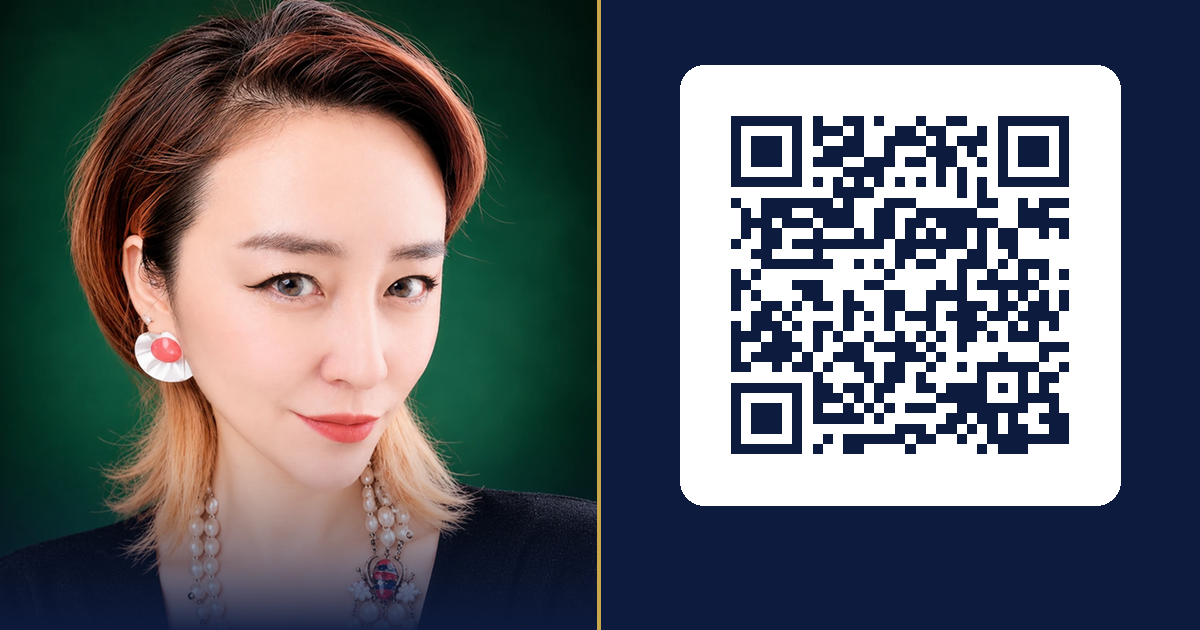
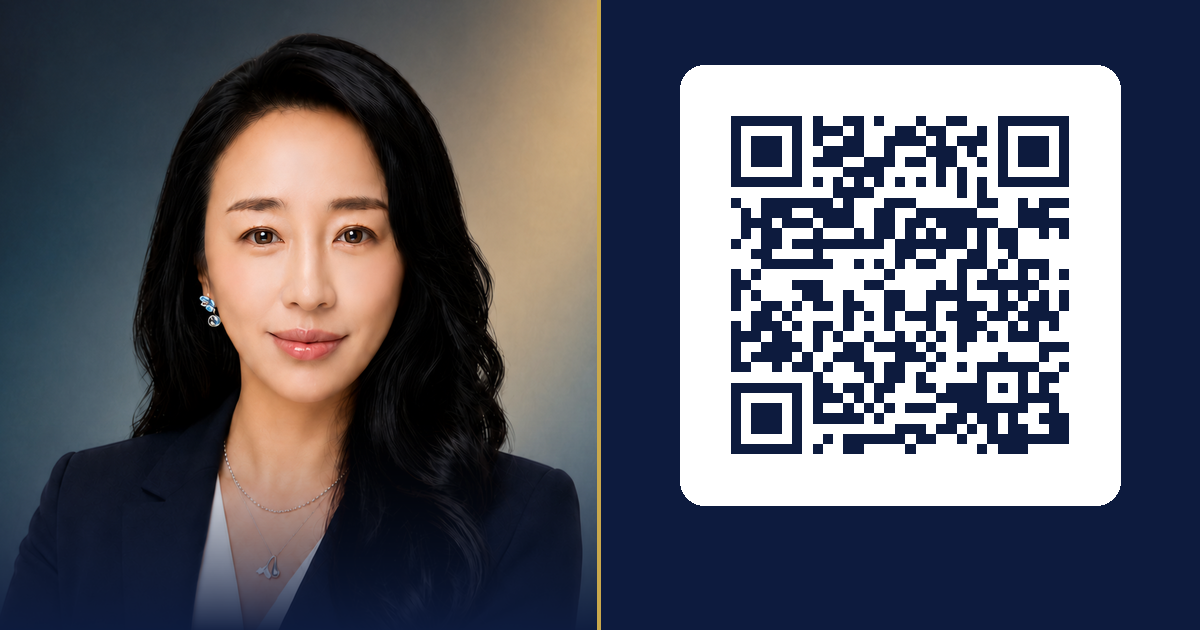
조신아 비즈홈: OG 이미지를 새 인물 사진으로 교체, 포트폴리오 12·13번(문 자 컬렉션, CHAMI 패키지) 추가
Claude-Session: https://claude.ai/code/session_01NPD1Gwdjd8fKtMWM3ioCDC

diff --git a/조신아/index.html b/조신아/index.html
@@ -390,7 +390,7 @@ footer .slogan-footer { font-size: 11px; color: var(--muted-dark); letter-spacin
 <section class="portfolio">
   <div class="section-label">Portfolio</div>
   <div class="section-title"><span data-lang="kr" class="active">작업 사례</span><span data-lang="jp">作品事例</span><span data-lang="cn">作品案例</span><span data-lang="en">Portfolio</span><span data-lang="it">Portfolio</span></div>
-  <div class="portfolio-track-wrap"><div class="portfolio-track" id="portfolio-track"><div class="portfolio-slide"><img src="portfolio/01.jpg" alt="portfolio 1" loading="lazy" onerror="this.parentNode.remove();window.portfolioRefresh&&window.portfolioRefresh()"></div><div class="portfolio-slide"><img src="portfolio/02.jpg" alt="portfolio 2" loading="lazy" onerror="this.parentNode.remove();window.portfolioRefresh&&window.portfolioRefresh()"></div><div class="portfolio-slide"><img src="portfolio/03.jpg" alt="portfolio 3" loading="lazy" onerror="this.parentNode.remove();window.portfolioRefresh&&window.portfolioRefresh()"></div><div class="portfolio-slide"><img src="portfolio/04.jpg" alt="portfolio 4" loading="lazy" onerror="this.parentNode.remove();window.portfolioRefresh&&window.portfolioRefresh()"></div><div class="portfolio-slide"><img src="portfolio/05.jpg" alt="portfolio 5" loading="lazy" onerror="this.parentNode.remove();window.portfolioRefresh&&window.portfolioRefresh()"></div><div class="portfolio-slide"><img src="portfolio/06.jpg" alt="portfolio 6" loading="lazy" onerror="this.parentNode.remove();window.portfolioRefresh&&window.portfolioRefresh()"></div><div class="portfolio-slide"><img src="portfolio/07.jpg" alt="portfolio 7" loading="lazy" onerror="this.parentNode.remove();window.portfolioRefresh&&window.portfolioRefresh()"></div><div class="portfolio-slide"><img src="portfolio/08.jpg" alt="portfolio 8" loading="lazy" onerror="this.parentNode.remove();window.portfolioRefresh&&window.portfolioRefresh()"></div><div class="portfolio-slide"><img src="portfolio/09.jpg" alt="portfolio 9" loading="lazy" onerror="this.parentNode.remove();window.portfolioRefresh&&window.portfolioRefresh()"></div><div class="portfolio-slide"><img src="portfolio/10.jpg" alt="portfolio 10" loading="lazy" onerror="this.parentNode.remove();window.portfolioRefresh&&window.portfolioRefresh()"></div><div class="portfolio-slide"><img src="portfolio/11.jpg" alt="portfolio 11" loading="lazy" onerror="this.parentNode.remove();window.portfolioRefresh&&window.portfolioRefresh()"></div></div></div>
+  <div class="portfolio-track-wrap"><div class="portfolio-track" id="portfolio-track"><div class="portfolio-slide"><img src="portfolio/01.jpg" alt="portfolio 1" loading="lazy" onerror="this.parentNode.remove();window.portfolioRefresh&&window.portfolioRefresh()"></div><div class="portfolio-slide"><img src="portfolio/02.jpg" alt="portfolio 2" loading="lazy" onerror="this.parentNode.remove();window.portfolioRefresh&&window.portfolioRefresh()"></div><div class="portfolio-slide"><img src="portfolio/03.jpg" alt="portfolio 3" loading="lazy" onerror="this.parentNode.remove();window.portfolioRefresh&&window.portfolioRefresh()"></div><div class="portfolio-slide"><img src="portfolio/04.jpg" alt="portfolio 4" loading="lazy" onerror="this.parentNode.remove();window.portfolioRefresh&&window.portfolioRefresh()"></div><div class="portfolio-slide"><img src="portfolio/05.jpg" alt="portfolio 5" loading="lazy" onerror="this.parentNode.remove();window.portfolioRefresh&&window.portfolioRefresh()"></div><div class="portfolio-slide"><img src="portfolio/06.jpg" alt="portfolio 6" loading="lazy" onerror="this.parentNode.remove();window.portfolioRefresh&&window.portfolioRefresh()"></div><div class="portfolio-slide"><img src="portfolio/07.jpg" alt="portfolio 7" loading="lazy" onerror="this.parentNode.remove();window.portfolioRefresh&&window.portfolioRefresh()"></div><div class="portfolio-slide"><img src="portfolio/08.jpg" alt="portfolio 8" loading="lazy" onerror="this.parentNode.remove();window.portfolioRefresh&&window.portfolioRefresh()"></div><div class="portfolio-slide"><img src="portfolio/09.jpg" alt="portfolio 9" loading="lazy" onerror="this.parentNode.remove();window.portfolioRefresh&&window.portfolioRefresh()"></div><div class="portfolio-slide"><img src="portfolio/10.jpg" alt="portfolio 10" loading="lazy" onerror="this.parentNode.remove();window.portfolioRefresh&&window.portfolioRefresh()"></div><div class="portfolio-slide"><img src="portfolio/11.jpg" alt="portfolio 11" loading="lazy" onerror="this.parentNode.remove();window.portfolioRefresh&&window.portfolioRefresh()"></div><div class="portfolio-slide"><img src="portfolio/12.jpg" alt="portfolio 12" loading="lazy" onerror="this.parentNode.remove();window.portfolioRefresh&&window.portfolioRefresh()"></div><div class="portfolio-slide"><img src="portfolio/13.jpg" alt="portfolio 13" loading="lazy" onerror="this.parentNode.remove();window.portfolioRefresh&&window.portfolioRefresh()"></div></div></div>
   <div class="portfolio-nav">
     <button class="portfolio-btn" onclick="portfolioSlide(-1)">‹</button>
     <div class="portfolio-dots" id="portfolio-dots"></div>
